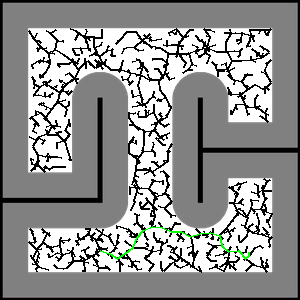
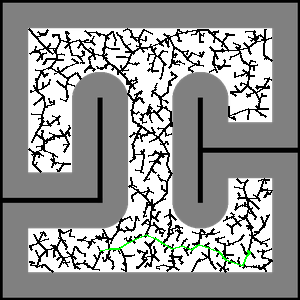
rrt and pf working

Changed region(s): [[0.09, 0.09, 0.9, 0.93]]

diff --git a/final_project.py b/final_project.py
@@ -7,6 +7,7 @@ import rrt_map
 import particle_filter
 import rrt
 import numpy as np
+import pdb
 
 
 
@@ -32,7 +33,7 @@ class Run:
         self.pidTheta = pid_controller.PIDController(200, 0, 100, [-10, 10], [-50, 50], is_angle=True)
         # TODO identify good particle filter parameters
         self.pf = particle_filter.ParticleFilter(self.mapJ, 1000, 0.06, 0.15, 0.2)
-
+        self.pidDistance = pid_controller.PIDController(1000, 0, 50, [0, 0], [-200, 200], is_angle=False)
         self.joint_angles = np.zeros(7)
 
     def sleep(self, time_in_sec):
@@ -84,6 +85,40 @@ class Run:
             self.sleep(0.01)
         self.pf.move_by(self.odometry.x - old_x, self.odometry.y - old_y, self.odometry.theta - old_theta)
 
+    def go_to_goal(self, goal_x, goal_y):
+        old_x = self.odometry.x
+        old_y = self.odometry.y
+        old_theta = self.odometry.theta
+        while math.sqrt(math.pow(goal_x - self.odometry.x, 2) + math.pow(goal_y - self.odometry.y, 2)) > 0.1:
+            goal_theta = math.atan2(goal_y - self.odometry.y, goal_x - self.odometry.x)
+            output_theta = self.pidTheta.update(self.odometry.theta, goal_theta, self.time.time())
+            distance = math.sqrt(math.pow(goal_x - self.odometry.x, 2) + math.pow(goal_y - self.odometry.y, 2))
+            output_distance = self.pidDistance.update(0, distance, self.time.time())
+            self.create.drive_direct(int(output_theta + output_distance), int(-output_theta + output_distance))
+            self.sleep(0.01)
+        self.create.drive_direct(0, 0)
+        self.pf.move_by(self.odometry.x - old_x, self.odometry.y - old_y, self.odometry.theta - old_theta)
+
+
+    def take_measurements(self):
+        angle = -90
+        while angle <= 90:
+            self.servo.go_to(angle)
+            self.time.sleep(2.0)
+            distance = self.sonar.get_distance()
+            #print(distance)
+            self.pf.measure(distance, math.radians(angle))
+            #self.pf._map.draw(self.pf, "test{}.png".format(self._pos))
+            x, y, theta = self.pf.get_estimate()
+            self.virtual_create.set_pose((x, y, 0.1), theta)
+    
+            data = []
+            for particle in self.pf._particles:
+                data.extend([particle.x, particle.y, 0.1, particle.theta])
+    
+            angle += 45
+            #self._pos += 1
+
     def visualize(self):
         x, y, theta = self.pf.get_estimate()
         self.virtual_create.set_pose((x, y, 0.1), theta)
@@ -94,7 +129,7 @@ class Run:
 
     def run(self):
         
-        print(self.create.sim_get_position())
+        #print(self.create.sim_get_position())
 
         startCoords = self.create.sim_get_position()
         start_x = startCoords[0]*100
@@ -133,19 +168,25 @@ class Run:
             goal_x = p.state[0] / 100.0
             goal_y = 3.0 - p.state[1] / 100.0
             print("goal x y: ", goal_x, goal_y)
-            while True:
-                state = self.create.update()
-                if state is not None:
-                    self.odometry.update(state.leftEncoderCounts, state.rightEncoderCounts)
-                    goal_theta = math.atan2(goal_y - self.odometry.y, goal_x - self.odometry.x)
-                    theta = math.atan2(math.sin(self.odometry.theta), math.cos(self.odometry.theta))
-                    output_theta = self.pidTheta.update(self.odometry.theta, goal_theta, self.time.time())
-                    self.create.drive_direct(int(base_speed+output_theta), int(base_speed-output_theta))
-                    # print("[{},{},{}]".format(self.odometry.x, self.odometry.y, math.degrees(self.odometry.theta)))
+             # taken from lab 8&9 solution
+            self.visualize()
+            # self.pf._pos = 0
+            self.take_measurements()
+            self.go_to_goal(goal_x, goal_y)
+            # self.take_measurements()
+            # while True:
+            #     state = self.create.update()
+            #     if state is not None:
+            #         self.odometry.update(state.leftEncoderCounts, state.rightEncoderCounts)
+            #         goal_theta = math.atan2(goal_y - self.odometry.y, goal_x - self.odometry.x)
+            #         theta = math.atan2(math.sin(self.odometry.theta), math.cos(self.odometry.theta))
+            #         output_theta = self.pidTheta.update(self.odometry.theta, goal_theta, self.time.time())
+            #         self.create.drive_direct(int(base_speed+output_theta), int(base_speed-output_theta))
+            #         # print("[{},{},{}]".format(self.odometry.x, self.odometry.y, math.degrees(self.odometry.theta)))
 
-                    distance = math.sqrt(math.pow(goal_x - self.odometry.x, 2) + math.pow(goal_y - self.odometry.y, 2))
-                    if distance < 0.05:
-                        break
+            #         distance = math.sqrt(math.pow(goal_x - self.odometry.x, 2) + math.pow(goal_y - self.odometry.y, 2))
+            #         if distance < 0.05:
+            #             break
 
 
 

diff --git a/particle_filter.py b/particle_filter.py
@@ -46,9 +46,9 @@ class ParticleFilter:
         for particle in self._particles:
             # compute what the distance should be, if particle position is accurate
             distance = self._map.closest_distance([particle.x, particle.y], particle.theta + servo_angle_in_rad)
-            print(particle.theta + servo_angle_in_rad)
-            print([particle.x, particle.y])
-            print(distance)
+            #print(particle.theta + servo_angle_in_rad)
+            #print([particle.x, particle.y])
+            #print(distance)
             # compute the probability P[measured z | robot @ x]
             p = scipy.stats.norm(distance, self._measurement_variance).pdf(z)
             if p == 0:
